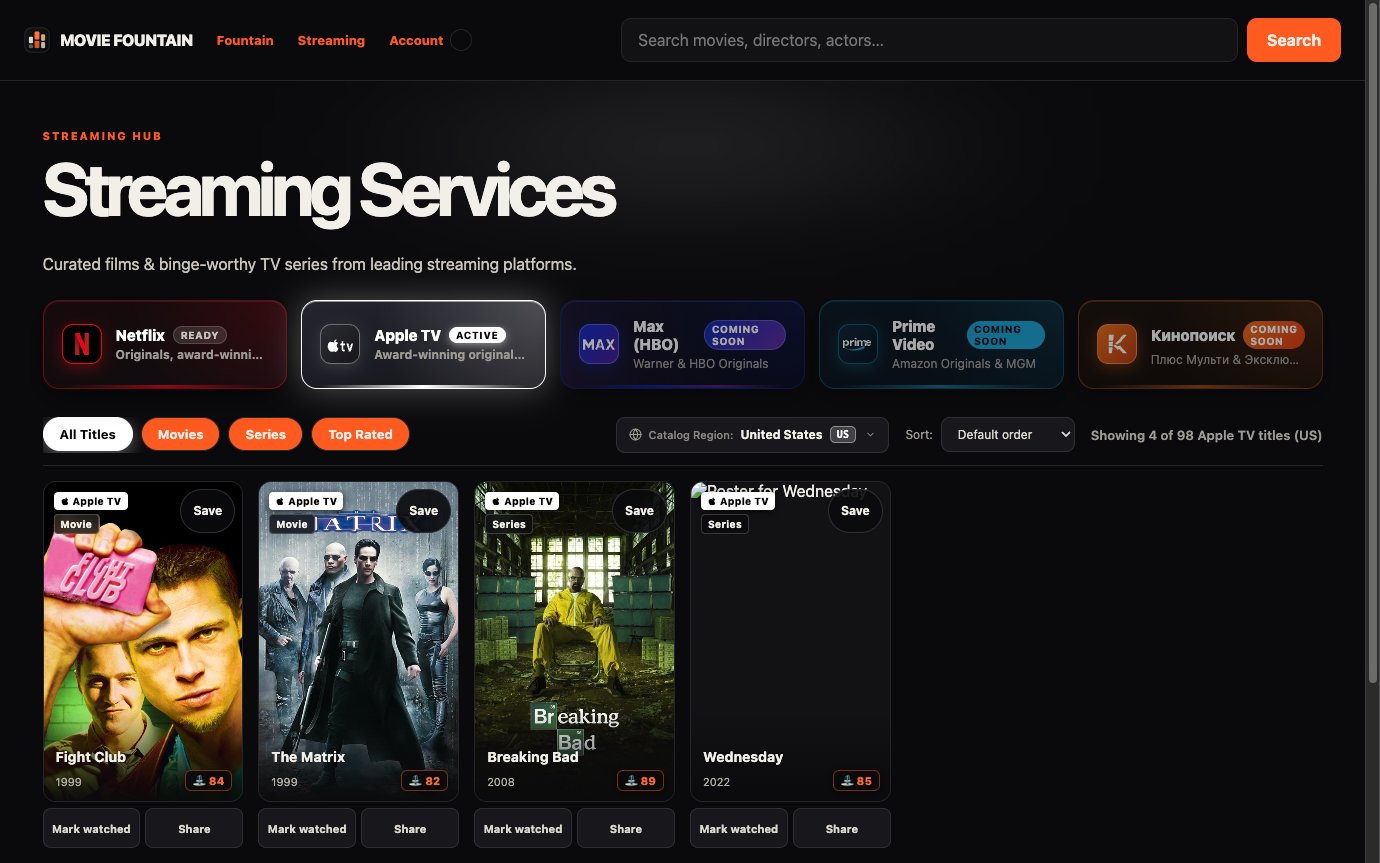
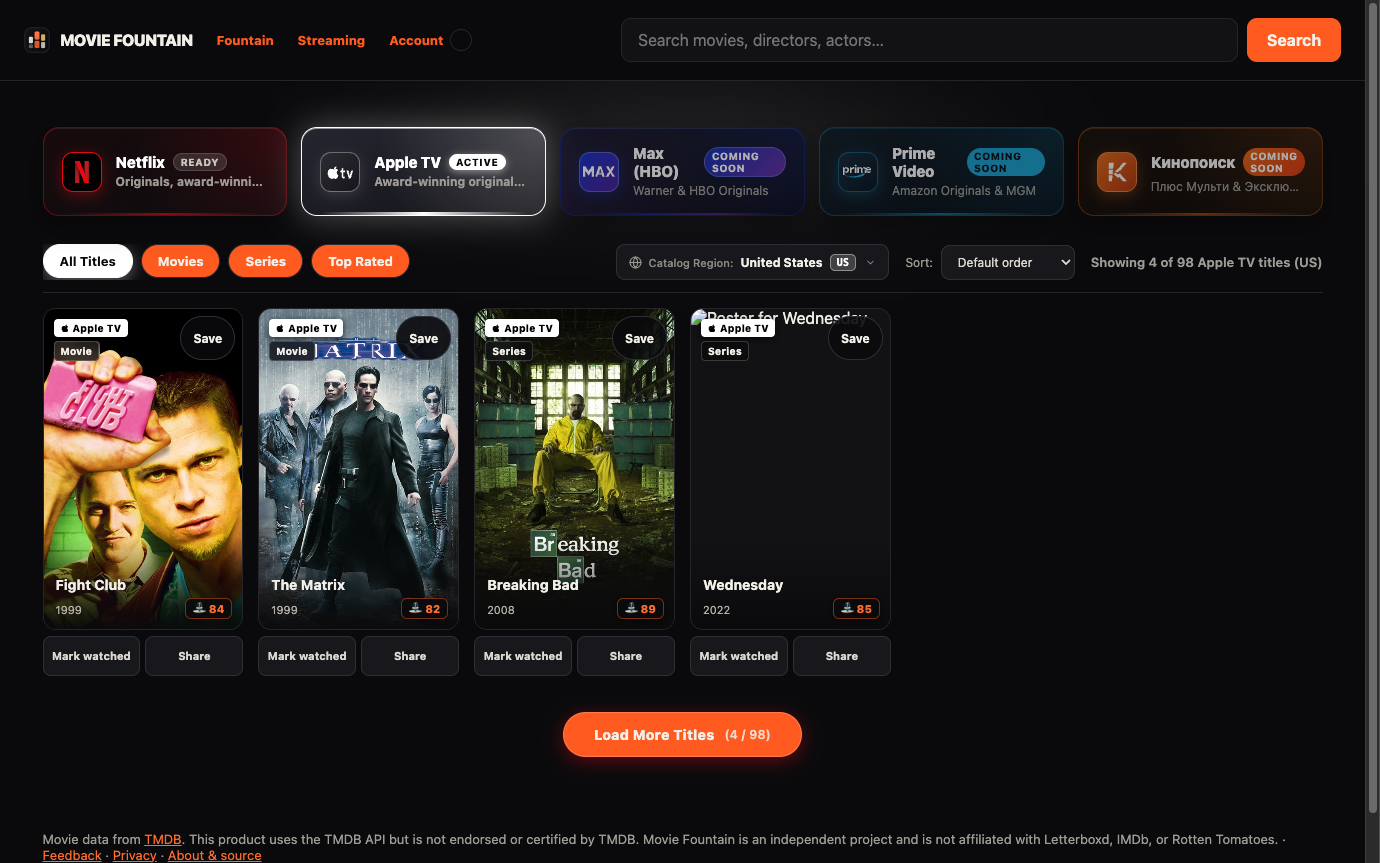
feat: remove text headings from streaming tab for streamlined catalog view

diff --git a/app.js b/app.js
@@ -1274,9 +1274,6 @@ function renderStreamingView() {
   app.innerHTML = `
     <div class="page-heading streaming-heading" data-active-provider="${currentStreamingProvider}">
       <div class="streaming-ambient-glow" aria-hidden="true"></div>
-      <p class="eyebrow">${t("streaming_tag")}</p>
-      <h1>${t("streaming_title")}</h1>
-      <p class="hero-copy">${esc(t("streaming_sub"))}</p>
 
       <!-- Provider Selector -->
       <div class="streaming-providers" role="tablist" aria-label="Streaming Providers">

diff --git a/site.css b/site.css
@@ -325,7 +325,7 @@ html[data-theme="liquid"] .watch-justwatch-link:hover{color:#38bdf8}
    ========================================================================== */
 .streaming-heading {
   position: relative;
-  padding-bottom: 15px;
+  padding: 24px 0 15px;
 }
 
 .streaming-ambient-glow {
